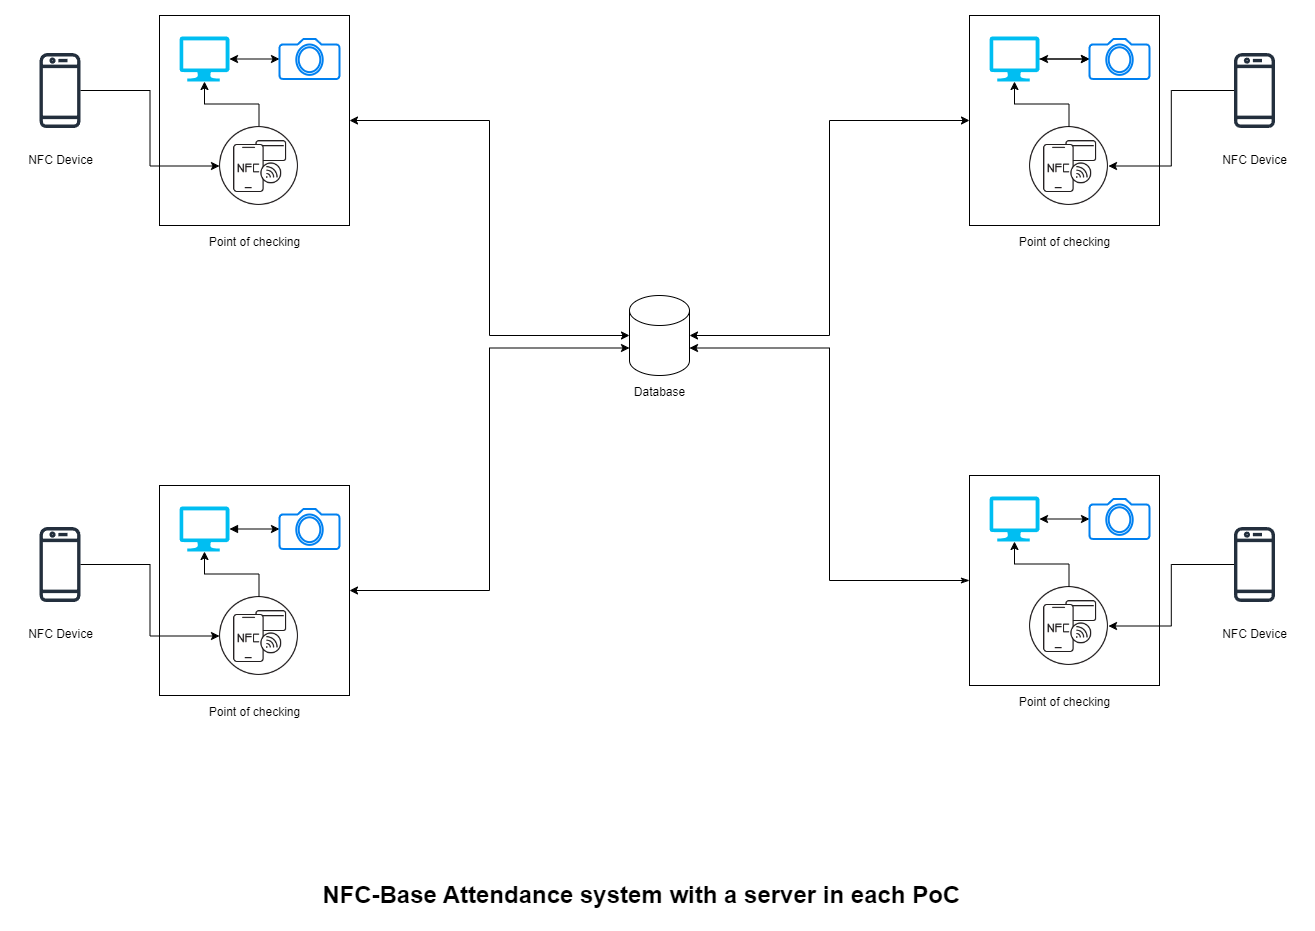
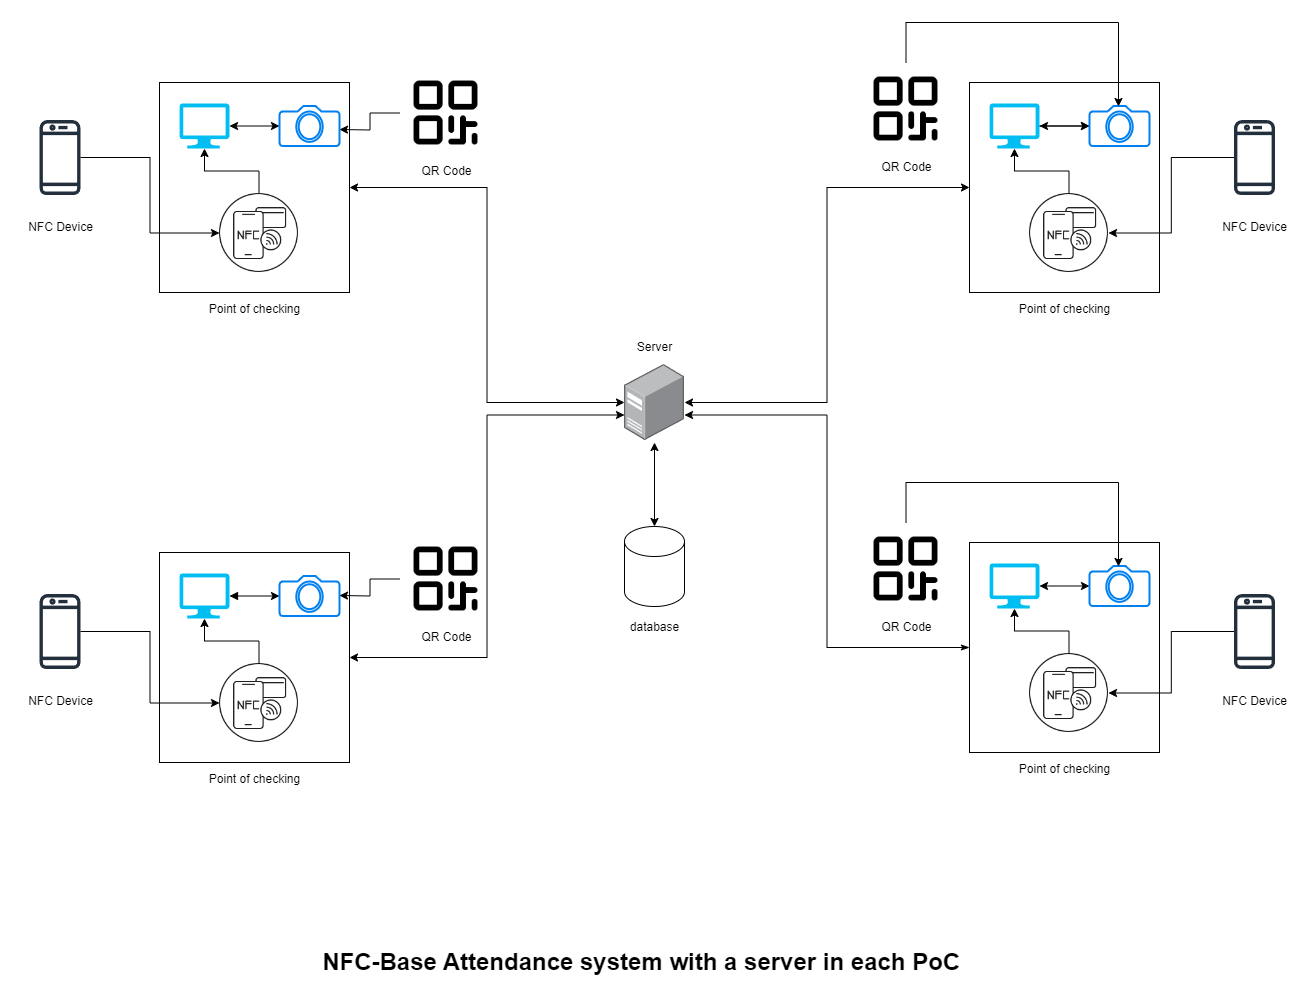
prototyping and brainstorming the mAMS - SecureGate

diff --git a/prototyping/README.md b/prototyping/README.md
@@ -1,0 +1,23 @@
+# SecureGate: Attendance Management System
+
+SecureGate is a **multitech attendance management system (mAMS)**
+
+## SecureGate sturcture
+
+SecureGate uses three different technologies to ensure integrity, effciencty and of course security. Our solution include Quick response (**QR**), face recongnition program and finally a near field communication (**NFC**) checking system.
+
+These three systems are connected to a process unit (it can be a computer, an arduino, anything really that can connect to internet and execute python script). The process unit extract data and send to the server which will verify information in database. 
+
+The following image represent the suggested structure of **SecureGate AMS** :
+
+![SecureGate](images/nfc.png)
+
+**Figure** : SecureGate, MultiTech AMS
+
+An attendant can check-in through either using the NFC chipset in his mobile or using a QR code he either downloads in his phone or print on a paper (can be found on a badge provided by the staff too).
+
+In the following sections we explain the developement process and the measures took to ensure security, flexibility and of course effeciency.
+
+## Matrix code implementation
+
+As we discussed in the last chapters, matrix codes are a cheap and important choice to implement on an **AMS** system.  
